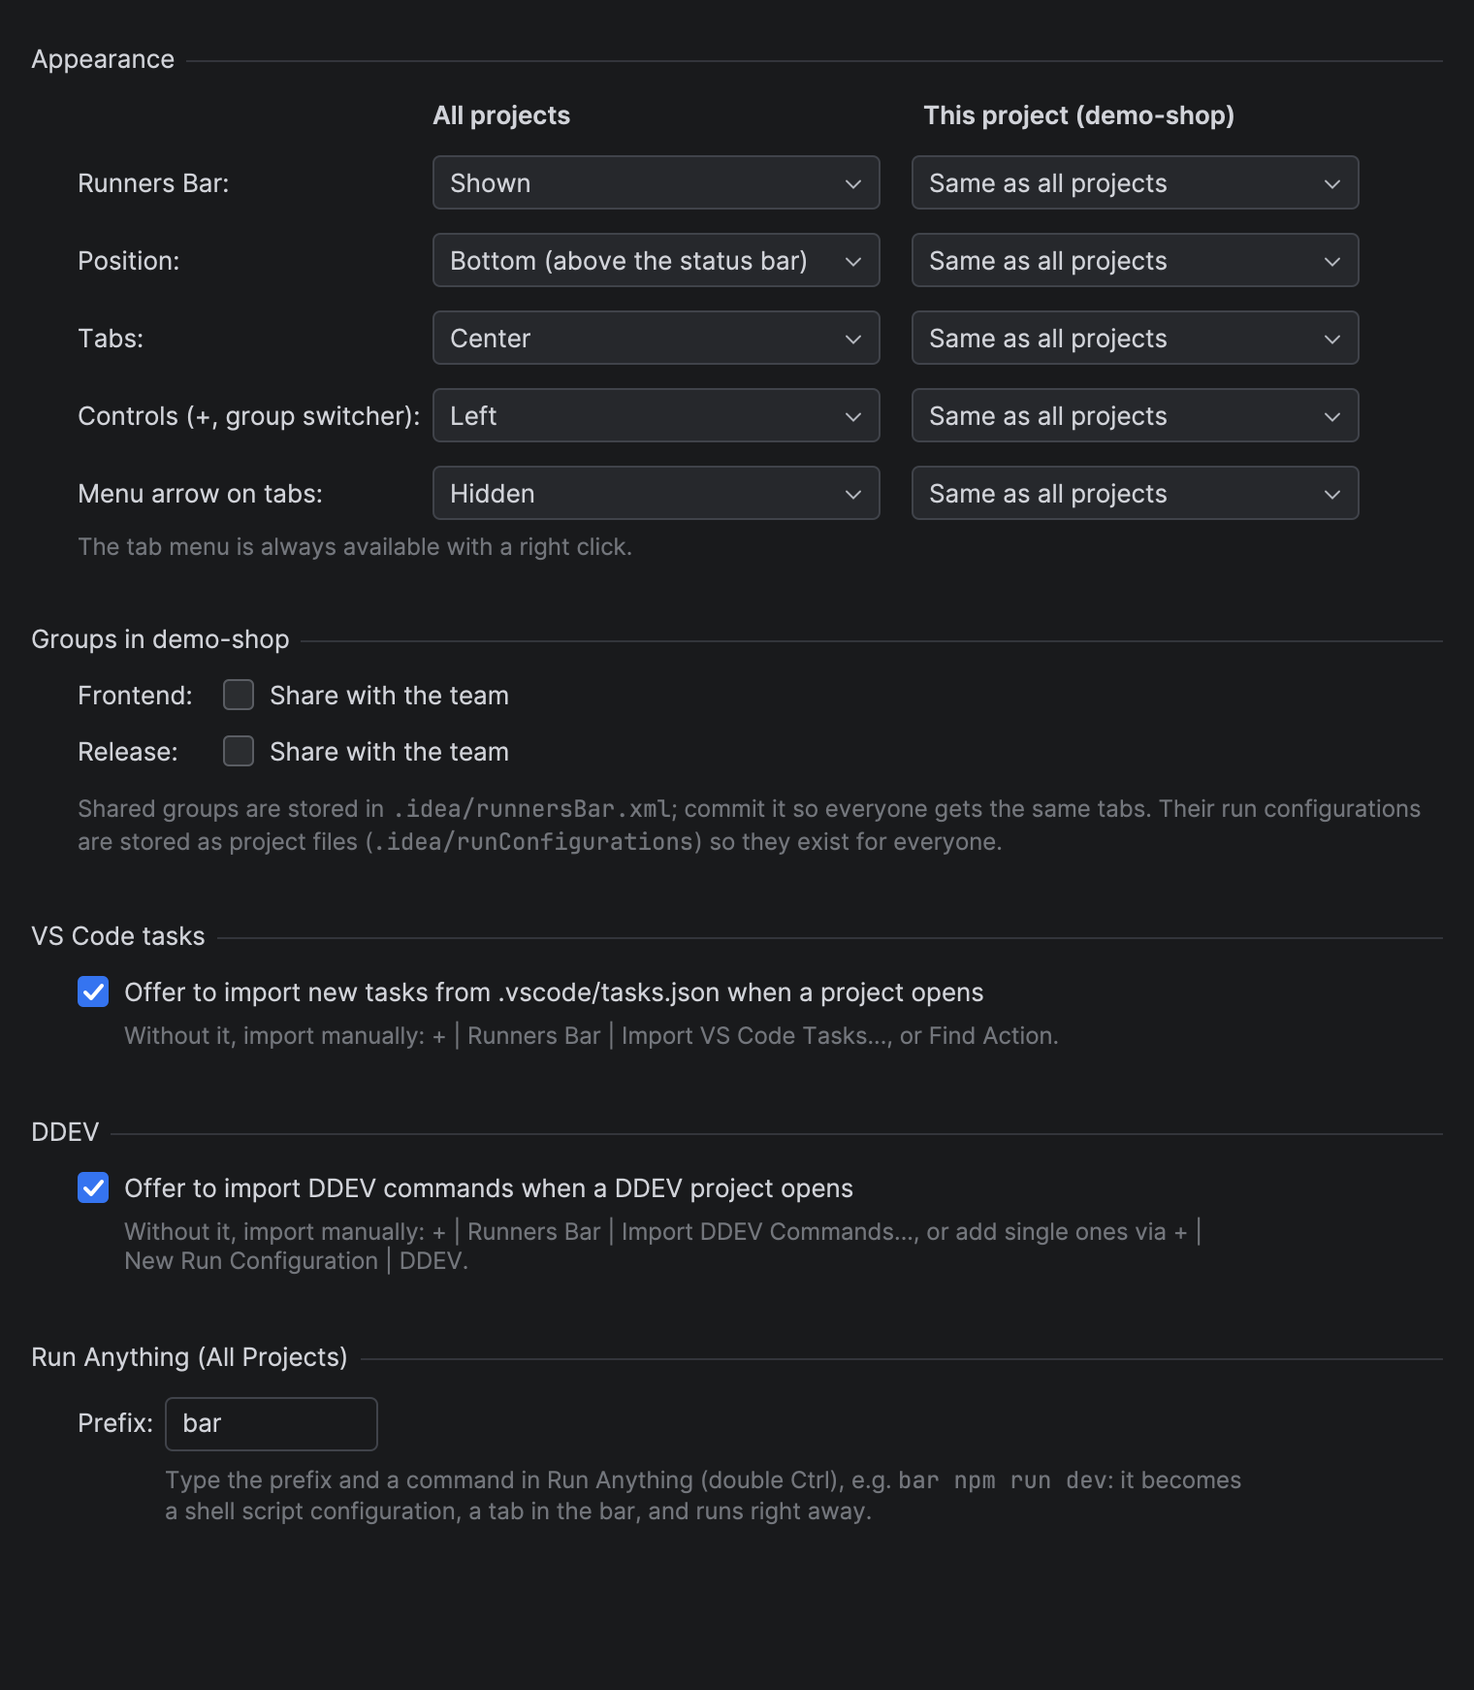
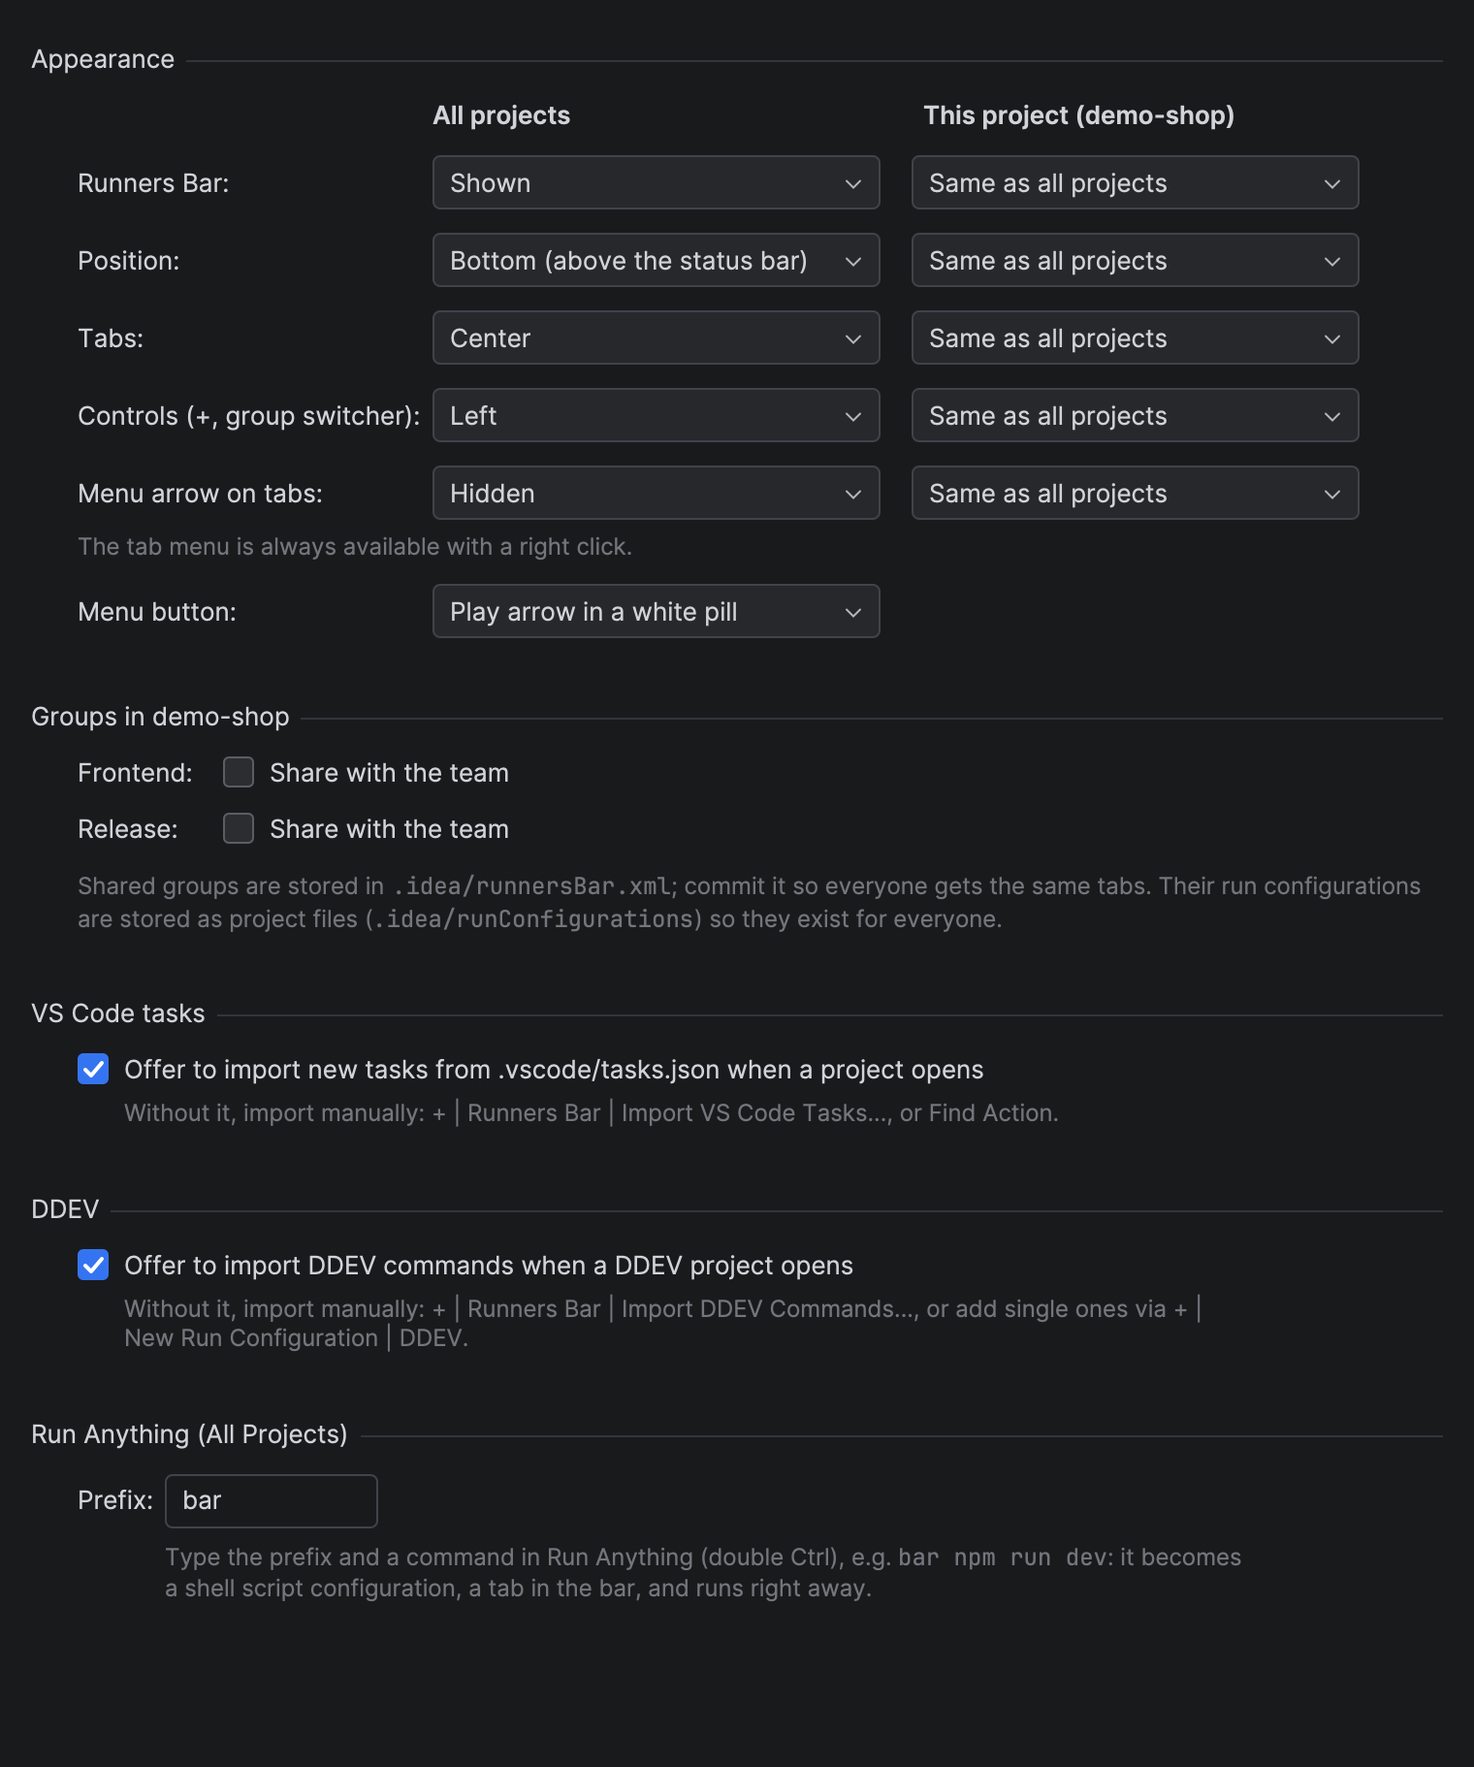
Runners Bar 2.2.0: .runners-bar project file, new menu button
Read groups and commands from a .runners-bar file (JSON with comments) in
the project root when the project opens and whenever it changes; the file
is the source for command, folder, environment and terminal, removed
runners are deleted, same-named shell configurations are taken over.
Register the file name as JSON so IDEs without the plugin suggest it.
New menu button (play arrow in a white pill) with a setting for a filled
or outlined play arrow or the plus. Verify against the newest EAP too.

diff --git a/src/main/kotlin/app/heckit/ide/runnersbar/RunnersBarFile.kt b/src/main/kotlin/app/heckit/ide/runnersbar/RunnersBarFile.kt
@@ -1,0 +1,138 @@
+package app.heckit.ide.runnersbar
+
+import com.google.gson.JsonObject
+import com.google.gson.JsonParser
+import com.intellij.execution.RunManager
+import com.intellij.execution.RunnerAndConfigurationSettings
+import com.intellij.openapi.application.ApplicationManager
+import com.intellij.openapi.application.EDT
+import com.intellij.openapi.diagnostic.logger
+import com.intellij.openapi.project.Project
+import com.intellij.openapi.startup.ProjectActivity
+import com.intellij.openapi.vfs.newvfs.BulkFileListener
+import com.intellij.openapi.vfs.newvfs.events.VFileEvent
+import com.intellij.openapi.vfs.VirtualFileManager
+import kotlinx.coroutines.Dispatchers
+import kotlinx.coroutines.withContext
+import java.nio.file.Path
+import kotlin.io.path.isRegularFile
+import kotlin.io.path.readText
+
+/**
+ * `.runners-bar` im Projektordner (JSON, Kommentare erlaubt): Gruppen mit Befehlen, die automatisch als Shell-Konfigurationen
+ * in der Leiste landen - z. B. von einem KI-Agenten beim Anlegen eines Projekts geschrieben. Die Datei ist die Quelle:
+ * Befehl, Ordner, Umgebung und Terminal werden bei jeder Änderung nachgezogen, entfernte Runner verschwinden wieder.
+ *
+ * ```
+ * { "groups": [ { "name": "Plugin", "runners": [
+ *     { "name": "Sandbox", "command": "./gradlew runIde", "terminal": false, "cwd": ".", "env": { "A": "1" } } ] } ] }
+ * ```
+ */
+object RunnersBarFile {
+    const val FILE_NAME = ".runners-bar"
+    private const val KEY_PREFIX = "runners-bar:"
+
+    /** Ein Runner aus der Datei; [terminal] null = wie bei VS-Code-Tasks am Befehl erkannt. */
+    data class Runner(val task: VsCodeTasks.Task, val terminal: Boolean?) {
+        val inTerminal: Boolean get() = terminal ?: task.needsTerminal
+    }
+
+    fun path(basePath: String?): Path? = basePath?.let { Path.of(it, FILE_NAME) }
+
+    fun read(basePath: String?): List<Runner>? {
+        val file = path(basePath)?.takeIf { it.isRegularFile() } ?: return null
+        return runCatching { parse(file.readText(), file.parent) }
+            .onFailure { logger<RunnersBarFile>().warn("Runners Bar: cannot read $file", it) }
+            .getOrNull()
+    }
+
+    fun parse(text: String, base: Path): List<Runner> {
+        val root = JsonParser.parseString(VsCodeTasks.stripJsonc(text)).asJsonObject
+        return root.getAsJsonArray("groups")?.filterIsInstance<JsonObject>().orEmpty().flatMap { group ->
+            val groupName = group.string("name")?.takeIf { it.isNotBlank() } ?: RunnersBarGroup.DEFAULT_GROUP
+            group.getAsJsonArray("runners")?.filterIsInstance<JsonObject>().orEmpty().mapNotNull { runner ->
+                val command = runner.string("command")?.takeIf { it.isNotBlank() } ?: return@mapNotNull null
+                val name = runner.string("name")?.takeIf { it.isNotBlank() } ?: command
+                val cwd = runner.string("cwd")?.let { base.resolve(it).normalize() } ?: base
+                val env = runner.getAsJsonObject("env")?.entrySet().orEmpty()
+                    .filter { it.value.isJsonPrimitive }.associate { it.key to it.value.asString }
+                val terminal = runner.get("terminal")?.takeIf { it.isJsonPrimitive && it.asJsonPrimitive.isBoolean }?.asBoolean
+                Runner(
+                    VsCodeTasks.Task(
+                        folder = groupName, label = name, command = command, workingDirectory = cwd.toString(), env = env,
+                        group = groupName, keyPrefix = KEY_PREFIX,
+                    ),
+                    terminal,
+                )
+            }
+        }
+    }
+
+    /** Bringt die Leiste auf den Stand der Datei. Neue Runner kommen in ihre Gruppe, entfernte werden gelöscht. */
+    fun sync(project: Project, runners: List<Runner>) {
+        if (project.isDisposed || !RunnersBarShell.isAvailable) return
+        val service = RunnersBarService.getInstance(project)
+        // Gleiche Namen in zwei Gruppen: nur der erste zählt.
+        val unique = runners.distinctBy { it.task.key }
+        for (runner in unique) {
+            var existing = service.importedSettings(runner.task.key)
+            // Eine gleichnamige Shell-Konfiguration (z. B. von Hand angelegt) übernehmen statt „Sandbox (Plugin)“ daneben anzulegen;
+            // eine früher so angelegte Doppelung wird dabei wieder gelöscht.
+            val sameName = adoptable(project, runner.task.label)
+            if (sameName != null && existing?.name != runner.task.label) {
+                existing?.let(service::delete)
+                service.markImported(runner.task.key, sameName)
+                service.addToGroup(runner.task.group!!, sameName)
+                existing = sameName
+            }
+            if (existing == null) {
+                val settings = VsCodeTasksImport.importOne(project, runner.task, runner.inTerminal)
+                service.addToGroup(runner.task.group!!, settings)
+            } else {
+                if (RunnersBarShell.differs(existing, runner.task)) RunnersBarShell.createOrUpdate(project, runner.task, existing.name, existing)
+                if (RunnersBarShell.executesInTerminal(existing) != runner.inTerminal) {
+                    RunnersBarShell.setExecuteInTerminal(project, existing, runner.inTerminal)
+                }
+            }
+        }
+        val keys = unique.mapTo(HashSet()) { it.task.key }
+        service.importedKeys(KEY_PREFIX).filter { it !in keys }.forEach { key ->
+            service.importedSettings(key)?.let(service::delete)
+            service.forgetImported(key)
+        }
+    }
+
+    private fun adoptable(project: Project, name: String): RunnerAndConfigurationSettings? {
+        val service = RunnersBarService.getInstance(project)
+        return RunManager.getInstance(project).allSettings.firstOrNull {
+            it.name == name && it.type.id == "ShConfigurationType" && !it.isTemporary && !service.isImported(it)
+        }
+    }
+
+    /** Liest die Datei im Hintergrund und gleicht danach auf dem EDT ab; eine fehlende Datei entfernt die Runner daraus. */
+    fun syncLater(project: Project) {
+        ApplicationManager.getApplication().executeOnPooledThread {
+            val runners = read(project.basePath)
+            // Unlesbare Datei (z. B. halb getippt): nichts löschen, auf die nächste Änderung warten.
+            if (runners == null && path(project.basePath)?.isRegularFile() == true) return@executeOnPooledThread
+            ApplicationManager.getApplication().invokeLater({ sync(project, runners.orEmpty()) }, project.disposed)
+        }
+    }
+}
+
+/** Liest `.runners-bar` beim Öffnen des Projekts und bei jeder Änderung der Datei. */
+class RunnersBarFileStartup : ProjectActivity {
+    override suspend fun execute(project: Project) {
+        if (!RunnersBarShell.isAvailable) return
+        val runners = withContext(Dispatchers.IO) { RunnersBarFile.read(project.basePath) }
+        withContext(Dispatchers.EDT) { if (runners != null) RunnersBarFile.sync(project, runners) }
+        val path = RunnersBarFile.path(project.basePath)?.toString()?.replace('\\', '/') ?: return
+        project.messageBus.connect(RunnersBarService.getInstance(project)).subscribe(VirtualFileManager.VFS_CHANGES, object : BulkFileListener {
+            override fun after(events: List<VFileEvent>) {
+                if (events.any { it.path == path }) RunnersBarFile.syncLater(project)
+            }
+        })
+    }
+}
+
+private fun JsonObject.string(name: String): String? = get(name)?.takeIf { it.isJsonPrimitive }?.asString

diff --git a/src/main/kotlin/app/heckit/ide/runnersbar/RunnersBarSettings.kt b/src/main/kotlin/app/heckit/ide/runnersbar/RunnersBarSettings.kt
@@ -23,6 +23,9 @@ enum class BarPosition { TOP, BOTTOM }
 /** Seite der Bedienelemente („+“, Gruppen-Umschalter). */
 enum class ControlsAlignment { LEFT, RIGHT }
 
+/** Knopf fürs Menü der Leiste: weiße Pille mit Play-Pfeil im CI-Verlauf, schlichter Play-Pfeil (gefüllt oder als Umriss, grau, im Dunkeln hell) oder das Plus der IDE. */
+enum class ButtonIcon { PILL, PLAY, PLAY_OUTLINE, PLUS }
+
 /** Ausrichtung der Tabs im übrigen Platz. */
 enum class TabsAlignment { LEFT, CENTER, RIGHT }
 
@@ -31,6 +34,7 @@ class RunnersBarSettingsState {
     var controlsAlignment: ControlsAlignment = ControlsAlignment.LEFT
     var tabsAlignment: TabsAlignment = TabsAlignment.LEFT
     var showMenuArrow: Boolean = true
+    var buttonIcon: ButtonIcon = ButtonIcon.PILL
 
     /** Präfix in Run Anything, das aus einem Befehl einen Tab macht (z. B. „bar npm run dev“). */
     var runAnythingPrefix: String = DEFAULT_RUN_ANYTHING_PREFIX
@@ -100,6 +104,15 @@ class RunnersBarSettings : PersistentStateComponent<RunnersBarSettingsState> {
             RunnersBarInstaller.reinstallAll()
         }
 
+    /** Gilt für alle Projekte. */
+    var buttonIcon: ButtonIcon
+        get() = state.buttonIcon
+        set(value) {
+            if (state.buttonIcon == value) return
+            state.buttonIcon = value
+            RunnersBarInstaller.reinstallAll()
+        }
+
     /** Gilt für alle Projekte; leer = Vorgabe. */
     var runAnythingPrefix: String
         get() = state.runAnythingPrefix.trim().ifEmpty { RunnersBarSettingsState.DEFAULT_RUN_ANYTHING_PREFIX }
@@ -164,6 +177,11 @@ class RunnersBarConfigurable(private val project: Project) : BoundConfigurable(R
                     RunnersBarBundle.message("settings.menuArrow"), shownHidden, ::shown,
                     settings::showMenuArrow.getter, settings::showMenuArrow.setter, service?.let { it::showMenuArrow },
                 ).rowComment(RunnersBarBundle.message("settings.menuArrow.comment"))
+                settingRow(
+                    RunnersBarBundle.message("settings.buttonIcon"), ButtonIcon.entries,
+                    { RunnersBarBundle.message("settings.buttonIcon.${it.name.lowercase()}") },
+                    settings::buttonIcon.getter, settings::buttonIcon.setter, null,
+                )
             }
             if (service != null) groupsGroup(service)
             if (RunnersBarShell.isAvailable) {

diff --git a/src/main/kotlin/app/heckit/ide/runnersbar/RunnersBarPanel.kt b/src/main/kotlin/app/heckit/ide/runnersbar/RunnersBarPanel.kt
@@ -7,6 +7,7 @@ import com.intellij.execution.configurations.ConfigurationFactory
 import com.intellij.execution.configurations.ConfigurationType
 import com.intellij.execution.impl.RunDialog
 import com.intellij.icons.AllIcons
+import com.intellij.openapi.util.IconLoader
 import com.intellij.ide.IdeEventQueue
 import com.intellij.notification.NotificationAction
 import com.intellij.notification.NotificationGroupManager
@@ -65,6 +66,14 @@ import javax.swing.SwingConstants
 import javax.swing.Timer
 import javax.swing.SwingUtilities
 
+/** Knopf fürs Menü der Leiste, siehe [ButtonIcon]. */
+private fun buttonIcon(): Icon = when (RunnersBarSettings.getInstance().buttonIcon) {
+    ButtonIcon.PILL -> IconLoader.getIcon("/icons/barAdd.svg", RunnersBarPanel::class.java)
+    ButtonIcon.PLAY -> IconLoader.getIcon("/icons/barPlay.svg", RunnersBarPanel::class.java)
+    ButtonIcon.PLAY_OUTLINE -> IconLoader.getIcon("/icons/barPlayOutline.svg", RunnersBarPanel::class.java)
+    ButtonIcon.PLUS -> AllIcons.General.Add
+}
+
 /** Die eigentliche Leiste: links „+“ und Gruppen-Umschalter, rechts davon die Tabs. */
 class RunnersBarPanel(private val project: Project, parent: Disposable) : JPanel(BorderLayout()) {
 
@@ -74,7 +83,7 @@ class RunnersBarPanel(private val project: Project, parent: Disposable) : JPanel
     private val tracker = RunningTracker(project, parent) { refreshTabs() }
 
     internal val addButton = HoverLabel(
-        icon = AllIcons.General.Add,
+        icon = buttonIcon(),
         tooltip = RunnersBarBundle.message("bar.add.tooltip"),
     ).also { it.onClick = { showAddPopup(it) } }
 
@@ -155,6 +164,7 @@ class RunnersBarPanel(private val project: Project, parent: Disposable) : JPanel
             TabsAlignment.RIGHT -> FlowLayout.RIGHT
         }
         tabComponents.forEach { it.showMenuArrow = settings.showMenuArrow }
+        addButton.icon = buttonIcon()
         // Die Tab-Fläche behält ihre Größe und würde sonst nicht neu angeordnet.
         tabs.revalidate()
         revalidate()

diff --git a/src/main/kotlin/app/heckit/ide/runnersbar/RunnersBarService.kt b/src/main/kotlin/app/heckit/ide/runnersbar/RunnersBarService.kt
@@ -338,6 +338,16 @@ class RunnersBarService(private val project: Project) : PersistentStateComponent
         })
     }
 
+    /** Schlüssel aller übernommenen Tasks, die mit [prefix] beginnen. */
+    fun importedKeys(prefix: String): List<String> = state.vsCodeTasks.map { it.key }.filter { it.startsWith(prefix) }
+
+    /** Gehört [settings] schon zu einem übernommenen Task (VS Code, DDEV, .runners-bar)? */
+    fun isImported(settings: RunnerAndConfigurationSettings): Boolean = state.vsCodeTasks.any { it.configId == settings.uniqueID }
+
+    fun forgetImported(key: String) {
+        state.vsCodeTasks.removeIf { it.key == key }
+    }
+
     /** Tasks, über die noch nicht entschieden wurde (importiert oder bewusst weggelassen). */
     fun notOffered(keys: List<String>): List<String> = keys.filter { it !in state.offeredVsCodeTasks }
 

diff --git a/README.md b/README.md
@@ -2,14 +2,14 @@
 
 <img src="marketplace/plugin-icon.png" width="360" alt="Runners Bar icon for light and dark themes">
 
-Plugin ID `app.heckit.ide.runnersbar` · Vendor heck\it ([heckit.app](https://heckit.app)) · [JetBrains Marketplace](https://plugins.jetbrains.com/plugin/34701-runners-bar) · Source: https://github.com/phse/runners-bar · Support: [GitHub Sponsors](https://github.com/sponsors/phse) or [Ko-fi](https://ko-fi.com/phse_de)
+Plugin ID `app.heckit.ide.runnersbar` · Vendor heck\it ([heckit.app](https://heckit.app)) · [JetBrains Marketplace](https://plugins.jetbrains.com/plugin/34701-runners-bar) · Source: https://github.com/phse/runners-bar · Support: [GitHub Sponsors](https://github.com/sponsors/phse) or [Ko-fi](https://ko-fi.com/phse_de) · Feedback and feature requests: [plugin-runners-bar@heckit.app](mailto:plugin-runners-bar@heckit.app)
 
 ![Runners Bar](marketplace/screenshots/01-runners-bar.png)
 
 A plugin for JetBrains IDEs (PhpStorm, IntelliJ IDEA, … 2026.1 and later) that adds a slim bar
 with your favourite run configurations above the status bar or below the toolbar.
 
-- **+** adds a run configuration (popup with search). **New Run Configuration** creates a new
+- The **menu button** (play arrow in a white pill, see the settings for plainer ones) adds a run configuration (popup with search). **New Run Configuration** creates a new
   one: pick the type, fill in the editor, and after *OK* it is added to the bar right away.
   Right-clicking an empty spot of the bar opens the + menu's **Runners Bar** submenu at the mouse.
 - **Run Anything** (double Ctrl): `bar npm run dev` (any command after the prefix) asks for a name,
@@ -66,6 +66,26 @@ with your favourite run configurations above the status bar or below the toolbar
   (`.idea/runConfigurations`) so they exist for everyone; the confirmation names them. Shared groups
   appear in their own section of the group switcher and are reloaded when the file changes (e.g.
   after `git pull`). *Stop Sharing…* moves a group back to your workspace.
+- **Project file `.runners-bar`**: a small JSON file (comments allowed) in the project root, like
+  `.editorconfig`. Its runners become shell run configurations in their groups when the project
+  opens and whenever the file changes. The file is the source: command, folder (`cwd`, relative to
+  the project), environment and `terminal` follow it; runners removed from the file are deleted.
+  Without `terminal`, it is detected from the command as for VS Code tasks. Handy for project
+  templates or an AI agent setting up a project:
+
+  ```jsonc
+  {
+    "groups": [
+      {
+        "name": "Plugin",
+        "runners": [
+          { "name": "Sandbox", "command": "./gradlew runIde", "terminal": false },
+          { "name": "Publish", "command": "./gradlew publishPlugin", "terminal": false }
+        ]
+      }
+    ]
+  }
+  ```
 - **Drag and drop**: drag tabs to reorder them, just like editor tabs: the tab follows the mouse
   and the other tabs make room. Dragged outside the bar, the tab turns red with a trash icon;
   dropping it there removes it from the group. Keep it outside for half a second and a list of
@@ -93,7 +113,8 @@ with your favourite run configurations above the status bar or below the toolbar
 - **Settings | Appearance & Behavior | Runners Bar**: a table with one row per setting: show or
   hide the bar, position *top* (below the toolbar) or *bottom* (above the status bar), tabs *left*,
   *center* or *right*, controls (+, group switcher) *left* or *right*, menu arrow on the tabs shown
-  or hidden (the menu is always available with a right click). The first column holds the
+  or hidden (the menu is always available with a right click), and the menu button: a play arrow
+  in a white pill (default), a filled or outlined play arrow, or a plus (all projects only). The first column holds the
   **defaults for all projects**, the second one the current project's value or *Same as all
   projects*. Below the table, every group of the project has a *Share with the team* checkbox,
   and *VS Code tasks* switches the import notification on or off.
@@ -204,6 +225,7 @@ the plugin is unloaded, the original state is restored.
 | `RunnersBarTab.kt` | Tab with click-to-run and menu |
 | `AddToRunnersBarAction.kt` | *Add to Runners Bar...* in the context menu and the gutter run icon's menu |
 | `VsCodeTasks.kt` | Reads `.vscode/tasks.json` (JSON with comments) and translates tasks into commands |
+| `RunnersBarFile.kt` | Reads `.runners-bar` and keeps its groups and run configurations in sync |
 | `VsCodeTasksImport.kt` | Import dialog, notification on project open, *Import VS Code Tasks...* action |
 | `RunnersBarExecution.kt` | Starting (run/debug) and detecting running processes |
 | `RunnersBarSettings.kt` | Defaults (position, tab and control alignment, menu arrow) and the settings page with per-project overrides |
